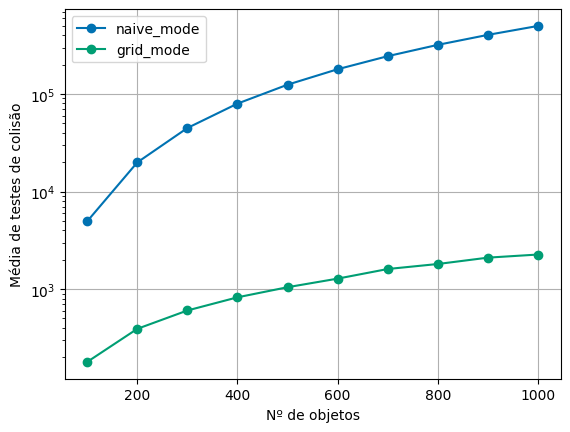
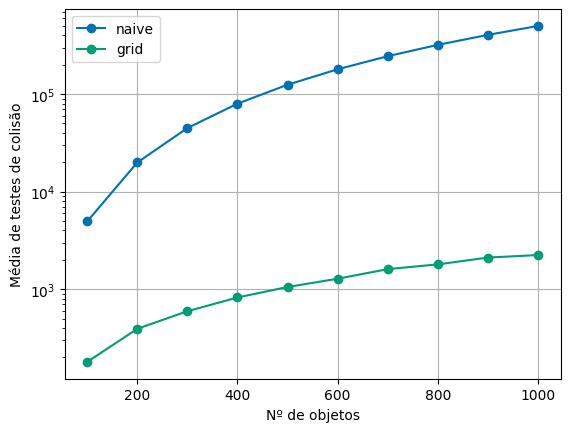
rodando testes e gerando figuras

diff --git a/package/tests/benchmark_box2d.js b/package/tests/benchmark_box2d.js
@@ -158,7 +158,7 @@ function benchmark(objects) {
 function main() {
     console.log('Iniciando benchmark\n');
 
-    for (let objects = 100; objects <= 2000; objects += 10) {
+    for (let objects = 100; objects <= 1000; objects += 100) {
         benchmark(objects);
     }
 